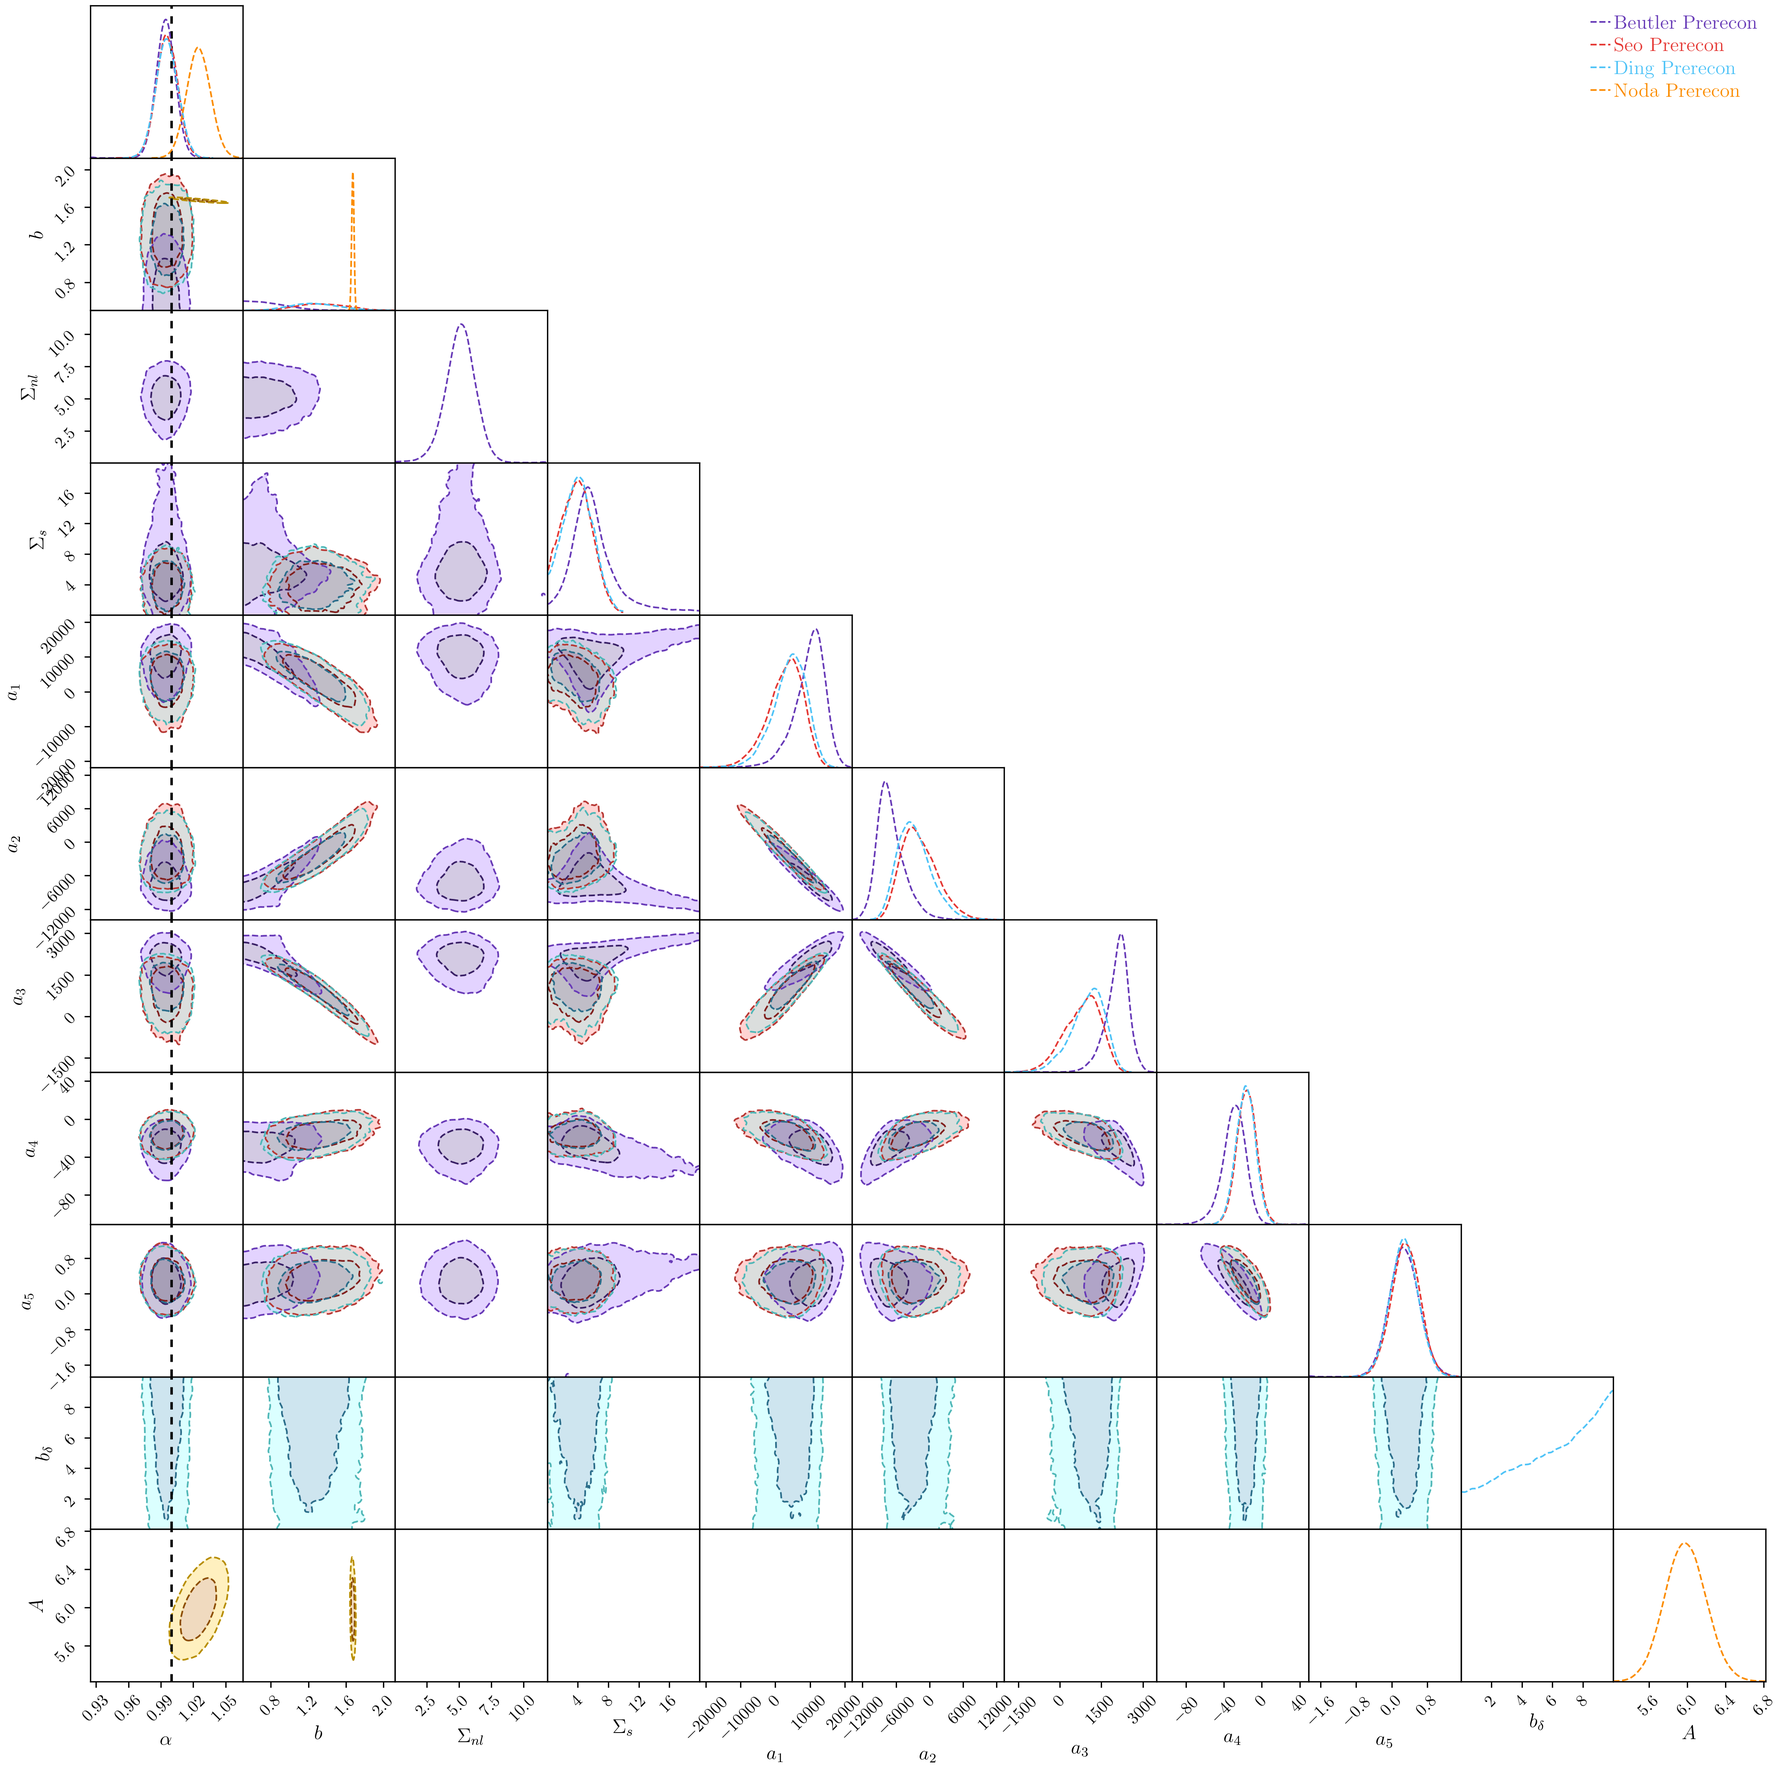
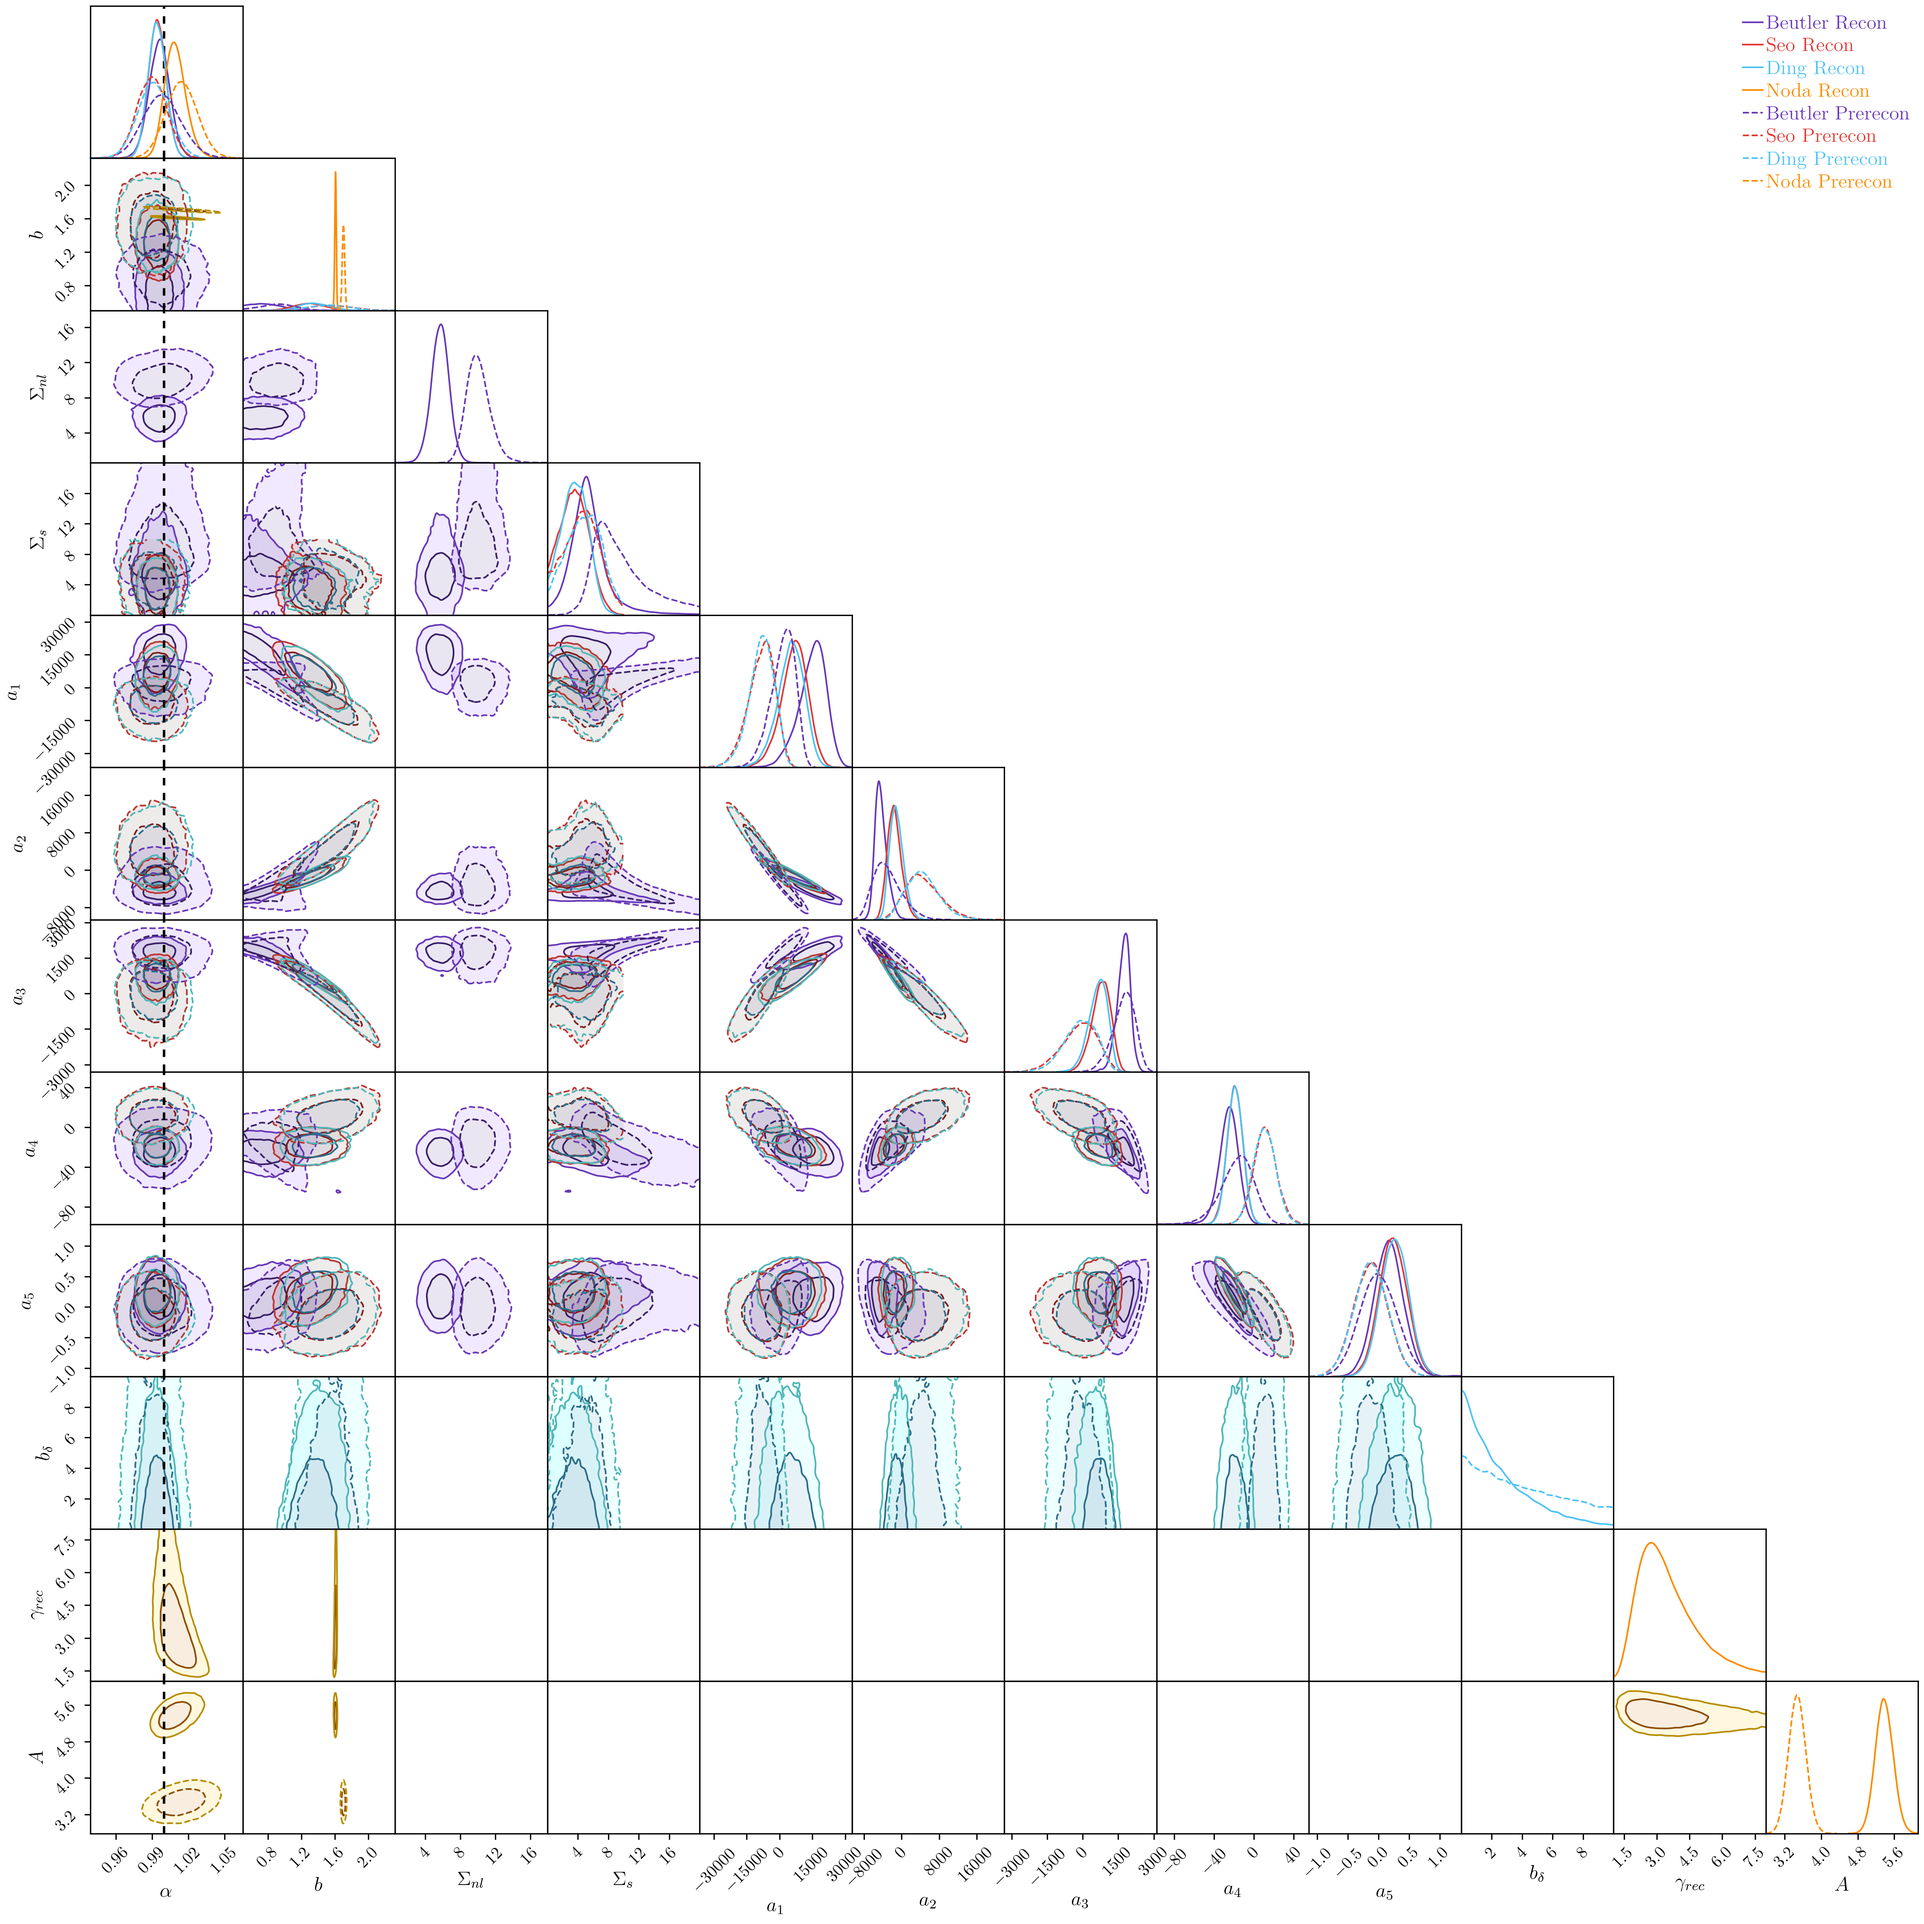
Updating Noda

Changed region(s): [[0.0311, 0.0, 1.0, 0.9685], [0.9006, 0.0, 0.9937, 0.0937]]

diff --git a/config/noda_avg_sdss.py b/config/noda_avg_sdss.py
@@ -21,7 +21,7 @@ if __name__ == "__main__":
     sampler = EnsembleSampler(temp_dir=dir_name)
     fitter = Fitter(dir_name)
 
-    for r in [False]:
+    for r in [True, False]:
         rt = "Recon" if r else "Prerecon"
         data = MockSDSSPowerSpectrum(recon=r, postprocess=postprocess, reduce_cov_factor=31)
         fitter.add_model_and_dataset(PowerNoda2019(postprocess=postprocess, recon=r, fix_params=["om", "f", "gamma", "b"]), data, name=f"Node {rt} fixed gamma, f, b", linestyle="-" if r else "--", color="o")
